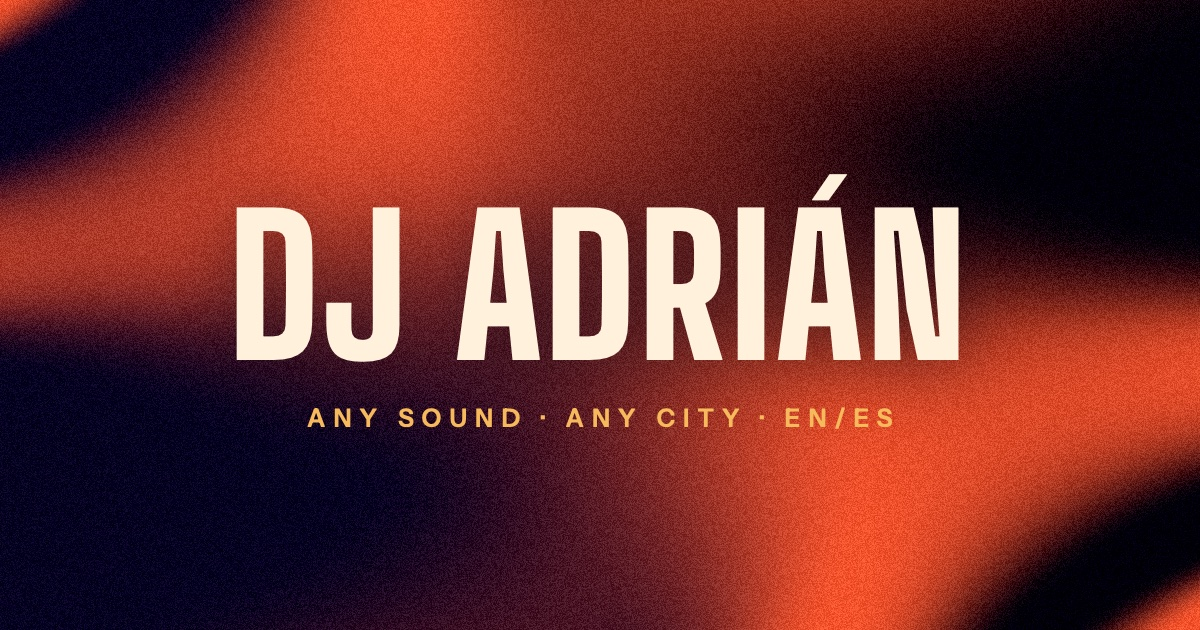
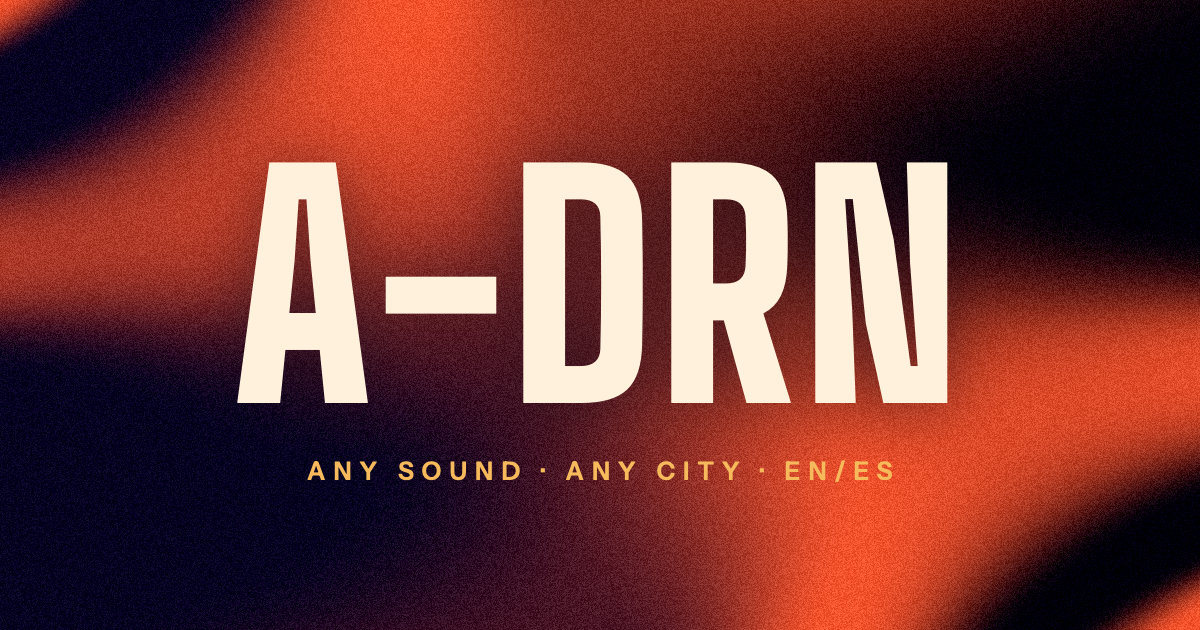
Rebrand to A-DRN, real WhatsApp number, Instagram link, real About photo

diff --git a/index.html b/index.html
@@ -3,9 +3,9 @@
 <head>
 <meta charset="UTF-8">
 <meta name="viewport" content="width=device-width, initial-scale=1.0, viewport-fit=cover">
-<title>DJ ADRIÁN · Any Party, Any Sound</title>
-<meta name="description" content="DJ Adrián. House parties, sunset sets and private events. Based in Miami, happy to travel. Any genre, any crowd. English y español. Message him on WhatsApp.">
-<meta property="og:title" content="DJ ADRIÁN · Any Party, Any Sound">
+<title>A-DRN · Any Party, Any Sound</title>
+<meta name="description" content="A-DRN. House parties, sunset sets and private events. Based in Miami, happy to travel. Any genre, any crowd. English y español. Message him on WhatsApp.">
+<meta property="og:title" content="A-DRN · Any Party, Any Sound">
 <meta property="og:description" content="DJ for any party, anywhere. Any genre, English y español. Message him on WhatsApp.">
 <meta property="og:type" content="website">
 <meta property="og:url" content="https://dj-adrian-music.vercel.app/">
@@ -178,7 +178,7 @@
   }
   .opener-name {
     font-family: 'Big Shoulders', sans-serif; font-weight: 800;
-    font-size: clamp(64px, 15vw, 220px);
+    font-size: clamp(102px, 24vw, 352px);
     line-height: .95; letter-spacing: .02em;
     color: var(--cream);
     text-shadow: 0 4px 60px rgba(13,10,27,.45);
@@ -343,6 +343,7 @@
   footer a { text-decoration: none; display: inline-flex; align-items: center; gap: 7px; transition: color .25s ease; }
   footer a:hover { color: var(--cream); }
   footer svg { width: 14px; height: 14px; }
+  .foot-links { display: inline-flex; align-items: center; gap: 22px; }
 
   /* reveal-on-enter base states are set from JS only, so no-JS/reduced-motion stays readable */
 
@@ -363,7 +364,7 @@
 <body>
 
 <div class="loader" id="loader" aria-hidden="true">
-  <span class="loader-mark">DJ ADRIÁN</span>
+  <span class="loader-mark">A-DRN</span>
   <span class="loader-track"><span class="loader-fill" id="loaderFill"></span></span>
   <span class="loader-pct" id="loaderPct">0%</span>
 </div>
@@ -428,15 +429,15 @@
 </script>
 
 <header class="topbar" id="topbar">
-  <a class="wordmark" href="#">DJ ADRIÁN</a>
+  <a class="wordmark" href="#">A-DRN</a>
   <nav class="nav-right">
   <a class="nav-link nav-text" href="#about" data-scroll>About</a>
   <a class="nav-link nav-text" href="#sets" data-scroll>Listen</a>
-  <a class="nav-link" href="tel:+13050000000" aria-label="Call DJ Adrián">
+  <a class="nav-link" href="tel:+17863009669" aria-label="Call A-DRN">
     <svg viewBox="0 0 24 24" fill="currentColor" aria-hidden="true"><path d="M6.62 10.79a15.05 15.05 0 0 0 6.59 6.59l2.2-2.2a1 1 0 0 1 1.02-.24c1.12.37 2.33.57 3.57.57a1 1 0 0 1 1 1V20a1 1 0 0 1-1 1C10.61 21 3 13.39 3 4a1 1 0 0 1 1-1h3.5a1 1 0 0 1 1 1c0 1.24.2 2.45.57 3.57a1 1 0 0 1-.25 1.02l-2.2 2.2Z"/></svg>
     <span class="call-label">Call</span>
   </a>
-  <a class="btn-book" href="https://wa.me/13050000000?text=Hola!%20Quiero%20reservar%20a%20DJ%20Adri%C3%A1n" target="_blank" rel="noopener">
+  <a class="btn-book" href="https://wa.me/17863009669?text=Hola!%20Quiero%20reservar%20a%20A-DRN" target="_blank" rel="noopener">
     <svg viewBox="0 0 24 24" fill="currentColor" aria-hidden="true"><path d="M17.5 14.4c-.3-.15-1.76-.87-2.03-.97-.27-.1-.47-.15-.67.15-.2.3-.77.96-.94 1.16-.17.2-.35.22-.65.07-.3-.15-1.26-.46-2.4-1.48-.88-.79-1.48-1.76-1.65-2.06-.17-.3-.02-.46.13-.61.13-.13.3-.35.45-.52.15-.17.2-.3.3-.5.1-.2.05-.37-.02-.52-.08-.15-.67-1.62-.92-2.22-.24-.58-.49-.5-.67-.51h-.57c-.2 0-.52.07-.8.37-.27.3-1.04 1.02-1.04 2.5 0 1.47 1.07 2.9 1.22 3.1.15.2 2.1 3.2 5.1 4.49.71.3 1.27.49 1.7.63.72.23 1.37.2 1.88.12.58-.09 1.76-.72 2.01-1.42.25-.7.25-1.29.17-1.42-.07-.13-.27-.2-.57-.35M12.05 21.79h-.01a9.87 9.87 0 0 1-5.03-1.38l-.36-.21-3.74.98 1-3.65-.24-.37a9.86 9.86 0 0 1-1.51-5.26c0-5.45 4.44-9.88 9.9-9.88a9.83 9.83 0 0 1 7 2.9 9.83 9.83 0 0 1 2.89 7c0 5.45-4.44 9.88-9.9 9.88M20.47 3.55A11.8 11.8 0 0 0 12.05 0C5.5 0 .16 5.33.16 11.89c0 2.1.55 4.14 1.59 5.94L.06 24l6.32-1.66a11.9 11.9 0 0 0 5.66 1.44h.01c6.55 0 11.89-5.33 11.89-11.88 0-3.18-1.24-6.16-3.47-8.4"/></svg>
     <span>WhatsApp</span>
   </a>
@@ -446,11 +447,11 @@
 <main>
   <div class="film" id="film">
 
-    <section class="chapter" id="ch1" aria-label="DJ Adrián, DJ for any party">
+    <section class="chapter" id="ch1" aria-label="A-DRN, DJ for any party">
       <div class="shot" id="shot1" role="img" aria-label="Miami golden hour over the water"></div>
       <div class="tint"></div>
       <div class="opener-content" id="openerContent">
-        <h1 class="opener-name" id="openerName">DJ ADRI&Aacute;N</h1>
+        <h1 class="opener-name" id="openerName">A-DRN</h1>
         <p class="opener-sub">Any Sound &middot; Any City &middot; EN/ES</p>
         <p class="opener-line">Sunset rooftops, house parties, private events. El ritmo se adapta a tu fiesta.</p>
       </div>
@@ -494,7 +495,7 @@
 
   <section class="about" id="about">
     <div class="about-grid">
-      <div class="about-photo" data-reveal><img src="assets/img/about.jpg" alt="Palm trees against the Miami dusk sky" loading="lazy" id="aboutImg"></div>
+      <div class="about-photo" data-reveal><img src="assets/img/about.jpg" alt="Adrián behind the decks at a club set" loading="lazy" id="aboutImg"></div>
       <div>
         <p class="section-label" data-reveal>Quién es</p>
         <h2 class="about-title" data-reveal>Wherever the party is, <em>Adrián</em> is the soundtrack.</h2>
@@ -542,25 +543,31 @@
     <p class="section-label" data-reveal>La gran final</p>
     <h2 class="finale-head" data-reveal>&iquest;Hacemos una fiesta?</h2>
     <p class="finale-sub" data-reveal>One message and it&rsquo;s on. Let&rsquo;s throw a party.</p>
-    <a class="btn-book btn-finale" data-reveal href="https://wa.me/13050000000?text=Hola!%20Quiero%20reservar%20a%20DJ%20Adri%C3%A1n" target="_blank" rel="noopener">
+    <a class="btn-book btn-finale" data-reveal href="https://wa.me/17863009669?text=Hola!%20Quiero%20reservar%20a%20A-DRN" target="_blank" rel="noopener">
       <svg viewBox="0 0 24 24" fill="currentColor" aria-hidden="true"><path d="M17.5 14.4c-.3-.15-1.76-.87-2.03-.97-.27-.1-.47-.15-.67.15-.2.3-.77.96-.94 1.16-.17.2-.35.22-.65.07-.3-.15-1.26-.46-2.4-1.48-.88-.79-1.48-1.76-1.65-2.06-.17-.3-.02-.46.13-.61.13-.13.3-.35.45-.52.15-.17.2-.3.3-.5.1-.2.05-.37-.02-.52-.08-.15-.67-1.62-.92-2.22-.24-.58-.49-.5-.67-.51h-.57c-.2 0-.52.07-.8.37-.27.3-1.04 1.02-1.04 2.5 0 1.47 1.07 2.9 1.22 3.1.15.2 2.1 3.2 5.1 4.49.71.3 1.27.49 1.7.63.72.23 1.37.2 1.88.12.58-.09 1.76-.72 2.01-1.42.25-.7.25-1.29.17-1.42-.07-.13-.27-.2-.57-.35M12.05 21.79h-.01a9.87 9.87 0 0 1-5.03-1.38l-.36-.21-3.74.98 1-3.65-.24-.37a9.86 9.86 0 0 1-1.51-5.26c0-5.45 4.44-9.88 9.9-9.88a9.83 9.83 0 0 1 7 2.9 9.83 9.83 0 0 1 2.89 7c0 5.45-4.44 9.88-9.9 9.88M20.47 3.55A11.8 11.8 0 0 0 12.05 0C5.5 0 .16 5.33.16 11.89c0 2.1.55 4.14 1.59 5.94L.06 24l6.32-1.66a11.9 11.9 0 0 0 5.66 1.44h.01c6.55 0 11.89-5.33 11.89-11.88 0-3.18-1.24-6.16-3.47-8.4"/></svg>
     <span>Send a WhatsApp</span>
     </a>
-    <p class="finale-alt" data-reveal>O por correo: <a href="mailto:bookings@djadrian.com">bookings@djadrian.com</a></p>
+    <p class="finale-alt" data-reveal>O por correo: <a href="mailto:bookings@djadrian.com">bookings@djadrian.com</a> &middot; <a href="https://www.instagram.com/adrn2026/" target="_blank" rel="noopener">Instagram</a></p>
   </section>
 
   <footer>
-  <span>DJ ADRIÁN &middot; Miami &amp; beyond</span>
+  <span>A-DRN &middot; Miami &amp; beyond</span>
   <a href="mailto:bookings@djadrian.com">bookings@djadrian.com</a>
-  <a href="https://wa.me/13050000000?text=Hola!%20Quiero%20reservar%20a%20DJ%20Adri%C3%A1n" target="_blank" rel="noopener">
+  <span class="foot-links">
+  <a href="https://www.instagram.com/adrn2026/" target="_blank" rel="noopener">
+    <svg viewBox="0 0 24 24" fill="none" stroke="currentColor" stroke-width="2" aria-hidden="true"><rect x="2.5" y="2.5" width="19" height="19" rx="5.5"/><circle cx="12" cy="12" r="4.4"/><circle cx="17.4" cy="6.6" r="1.3" fill="currentColor" stroke="none"/></svg>
+    Instagram
+  </a>
+  <a href="https://wa.me/17863009669?text=Hola!%20Quiero%20reservar%20a%20A-DRN" target="_blank" rel="noopener">
     <svg viewBox="0 0 24 24" fill="currentColor" aria-hidden="true"><path d="M17.5 14.4c-.3-.15-1.76-.87-2.03-.97-.27-.1-.47-.15-.67.15-.2.3-.77.96-.94 1.16-.17.2-.35.22-.65.07-.3-.15-1.26-.46-2.4-1.48-.88-.79-1.48-1.76-1.65-2.06-.17-.3-.02-.46.13-.61.13-.13.3-.35.45-.52.15-.17.2-.3.3-.5.1-.2.05-.37-.02-.52-.08-.15-.67-1.62-.92-2.22-.24-.58-.49-.5-.67-.51h-.57c-.2 0-.52.07-.8.37-.27.3-1.04 1.02-1.04 2.5 0 1.47 1.07 2.9 1.22 3.1.15.2 2.1 3.2 5.1 4.49.71.3 1.27.49 1.7.63.72.23 1.37.2 1.88.12.58-.09 1.76-.72 2.01-1.42.25-.7.25-1.29.17-1.42-.07-.13-.27-.2-.57-.35M12.05 21.79h-.01a9.87 9.87 0 0 1-5.03-1.38l-.36-.21-3.74.98 1-3.65-.24-.37a9.86 9.86 0 0 1-1.51-5.26c0-5.45 4.44-9.88 9.9-9.88a9.83 9.83 0 0 1 7 2.9 9.83 9.83 0 0 1 2.89 7c0 5.45-4.44 9.88-9.9 9.88M20.47 3.55A11.8 11.8 0 0 0 12.05 0C5.5 0 .16 5.33.16 11.89c0 2.1.55 4.14 1.59 5.94L.06 24l6.32-1.66a11.9 11.9 0 0 0 5.66 1.44h.01c6.55 0 11.89-5.33 11.89-11.88 0-3.18-1.24-6.16-3.47-8.4"/></svg>
     WhatsApp
   </a>
+  </span>
   </footer>
   </div>
 </main>
 
-<a class="btn-book fab" id="fab" href="https://wa.me/13050000000?text=Hola!%20Quiero%20reservar%20a%20DJ%20Adri%C3%A1n" target="_blank" rel="noopener">
+<a class="btn-book fab" id="fab" href="https://wa.me/17863009669?text=Hola!%20Quiero%20reservar%20a%20A-DRN" target="_blank" rel="noopener">
   <svg viewBox="0 0 24 24" fill="currentColor" aria-hidden="true"><path d="M17.5 14.4c-.3-.15-1.76-.87-2.03-.97-.27-.1-.47-.15-.67.15-.2.3-.77.96-.94 1.16-.17.2-.35.22-.65.07-.3-.15-1.26-.46-2.4-1.48-.88-.79-1.48-1.76-1.65-2.06-.17-.3-.02-.46.13-.61.13-.13.3-.35.45-.52.15-.17.2-.3.3-.5.1-.2.05-.37-.02-.52-.08-.15-.67-1.62-.92-2.22-.24-.58-.49-.5-.67-.51h-.57c-.2 0-.52.07-.8.37-.27.3-1.04 1.02-1.04 2.5 0 1.47 1.07 2.9 1.22 3.1.15.2 2.1 3.2 5.1 4.49.71.3 1.27.49 1.7.63.72.23 1.37.2 1.88.12.58-.09 1.76-.72 2.01-1.42.25-.7.25-1.29.17-1.42-.07-.13-.27-.2-.57-.35M12.05 21.79h-.01a9.87 9.87 0 0 1-5.03-1.38l-.36-.21-3.74.98 1-3.65-.24-.37a9.86 9.86 0 0 1-1.51-5.26c0-5.45 4.44-9.88 9.9-9.88a9.83 9.83 0 0 1 7 2.9 9.83 9.83 0 0 1 2.89 7c0 5.45-4.44 9.88-9.9 9.88M20.47 3.55A11.8 11.8 0 0 0 12.05 0C5.5 0 .16 5.33.16 11.89c0 2.1.55 4.14 1.59 5.94L.06 24l6.32-1.66a11.9 11.9 0 0 0 5.66 1.44h.01c6.55 0 11.89-5.33 11.89-11.88 0-3.18-1.24-6.16-3.47-8.4"/></svg>
   <span>WhatsApp</span>
 </a>
